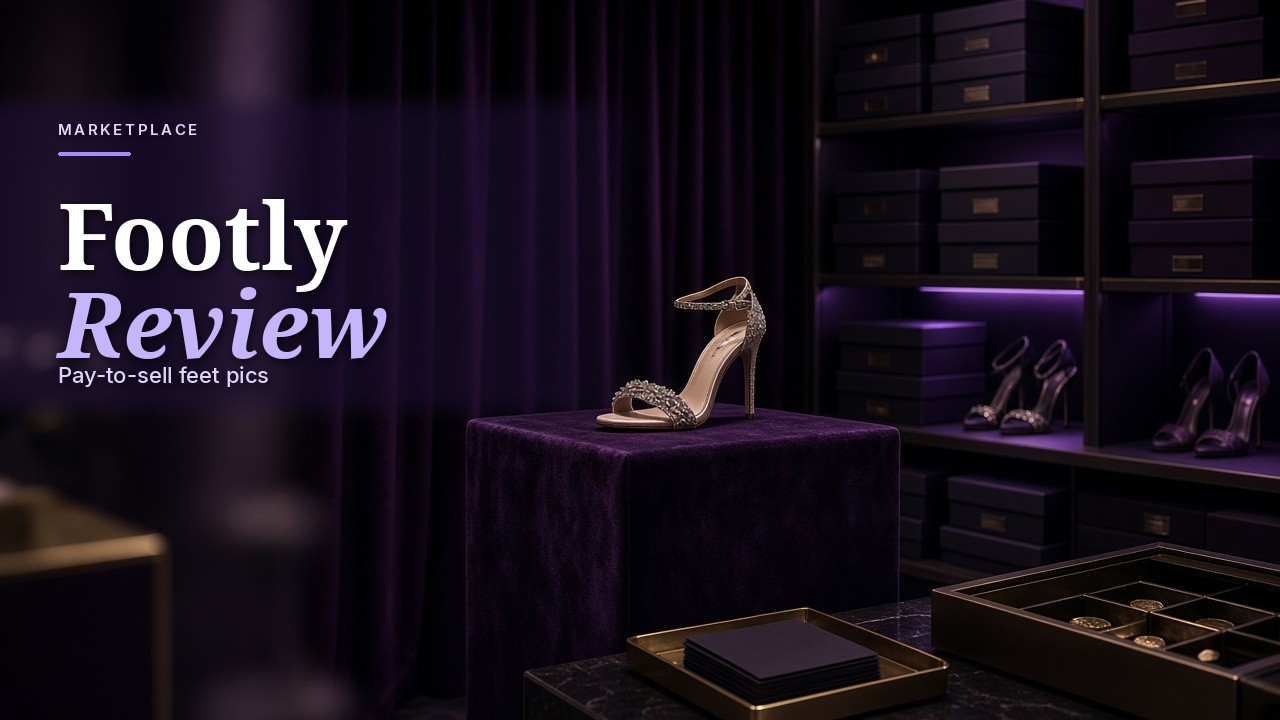
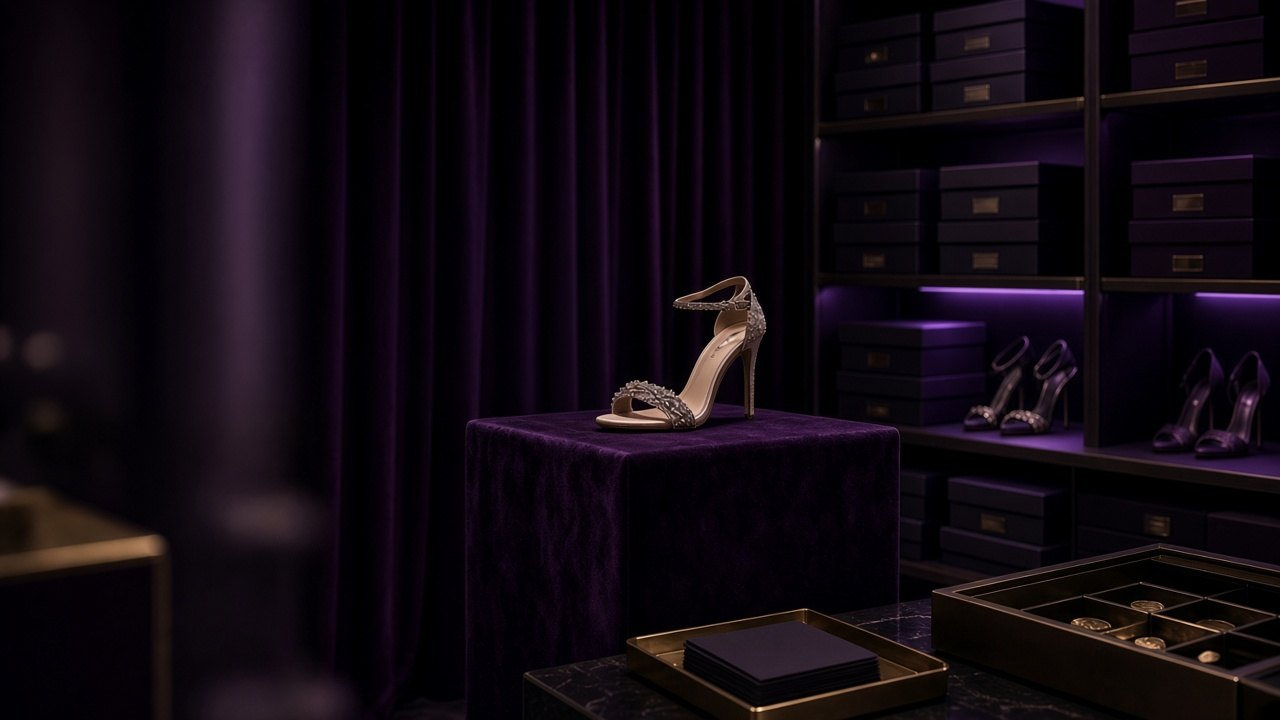
VIP cards: related full-bleed covers, title only (#31)
* Show only the guide title on each VIP card.

The Sell Feet Pics hub cards drop the number, badge, blurb, and Read guide button. The related cover stays as the full-card background, with a scrim so the linked title stays readable.

* Give the remaining VIP cards a title-matched cover.

Jerkay now shows a cam screen, Footly a jeweled heel, and the free-feet guide feet on a desk. Every hub card stays a full-bleed cover with only the linked title.

---------

diff --git a/category/sell-feet-pics/index.html b/category/sell-feet-pics/index.html
@@ -470,19 +470,13 @@ details.faq>summary::after{display:none!important}
 .fee-compare td{color:var(--text);font-size:14.5px}
 .fee-compare tbody tr:nth-child(even){background:var(--bg-2)}
 .vip-grid{display:grid;grid-template-columns:repeat(3,minmax(0,1fr));gap:16px}
-.vip-rich{position:relative;isolation:isolate;display:flex;flex-direction:column;overflow:hidden;color:#fff;border:1px solid rgba(196,181,253,.4);border-top:4px solid #C4B5FD;border-radius:16px;padding:18px 18px 16px;min-height:100%;background-color:#140c24;background-size:cover;background-position:center;background-repeat:no-repeat}
-.vip-rich::before{content:"";position:absolute;inset:0;z-index:0;pointer-events:none;background:linear-gradient(180deg,rgba(20,12,36,.42) 0%,rgba(20,12,36,.72) 46%,rgba(8,5,16,.92) 100%)}
-.vip-rich>*{position:relative;z-index:1}
-.vip-rich-top{display:flex;align-items:center;justify-content:space-between;margin-bottom:10px}
-.vip-num{font-family:var(--serif);font-size:22px;color:#f5f3ff}
-.vip-badge{font-size:11px;font-weight:800;letter-spacing:.08em;text-transform:uppercase;color:#f5f3ff;background:rgba(76,29,149,.72);border:1px solid rgba(196,181,253,.55);border-radius:999px;padding:4px 8px}
-:root[data-theme="dark"] .vip-badge{color:#f5f3ff;background:rgba(76,29,149,.72)}
-.vip-rich h3{margin:0 0 8px;font-size:18px;line-height:1.3}
+.vip-rich{position:relative;isolation:isolate;display:flex;flex-direction:column;justify-content:flex-end;overflow:hidden;color:#fff;border:1px solid rgba(196,181,253,.4);border-radius:16px;padding:18px;min-height:220px;aspect-ratio:1/1;background-color:#140c24;background-size:cover;background-position:right center;background-repeat:no-repeat}
+.vip-rich::before{content:"";position:absolute;inset:0;z-index:0;pointer-events:none;background:linear-gradient(180deg,rgba(20,12,36,.28) 0%,rgba(20,12,36,.55) 48%,rgba(8,5,16,.88) 100%)}
+.vip-rich::after{content:"";position:absolute;inset:0 auto 0 0;width:12%;z-index:1;pointer-events:none;background:linear-gradient(90deg,#140c24,transparent)}
+.vip-rich>*{position:relative;z-index:2}
+.vip-rich h3{margin:0;font-size:20px;line-height:1.25}
 .vip-rich h3 a{color:#fff;text-decoration:none}
 .vip-rich h3 a:hover{color:#e9d5ff}
-.vip-rich p{margin:0 0 14px;color:#f4efff;flex:1;font-size:14.5px}
-.vip-read{align-self:flex-start;background:#7C3AED;color:#fff!important;text-decoration:none!important;font-weight:700;border-radius:999px;padding:8px 14px;font-size:13px}
-.vip-read:hover{background:#6D28D9}
 .related-cats{padding-top:10px}
 @media(max-width:900px){.vip-grid{grid-template-columns:repeat(2,minmax(0,1fr))}}
 @media(max-width:640px){.vip-grid{grid-template-columns:1fr}.sfp-hero{border-radius:0 0 18px 18px}.sfp-hero .in{padding:30px 16px 36px}.vip-box{padding:24px 18px}}
@@ -606,7 +600,7 @@ details.faq>summary::after{display:none!important}
     </section>
     <section class="vip-guides" aria-labelledby="guides-h">
       <div class="section-head"><h2 id="guides-h">All VIP guides</h2></div>
-      <div class="vip-grid"><article class="vip-rich" style="background-image:url('/best-platforms-for-content-creators/cover.jpg')"><div class="vip-rich-top"><span class="vip-num">01</span><span class="vip-badge">VIP guide</span></div><h3><a href="https://www.dark-ero.store/best-platforms-for-content-creators/">Best Creator Platforms for Beginners 2026: 12 Top Picks Ranked</a></h3><p>New to creating? Compare 12 beginner-friendly creator platforms by fees, setup time and first-sale speed, from FeetFinder to OnlyFans, Fansly and Patreon.</p><a class="vip-read" href="https://www.dark-ero.store/best-platforms-for-content-creators/">Read guide</a></article><article class="vip-rich" style="background-image:url('/best-sites-to-sell-feet-pics/cover.jpg')"><div class="vip-rich-top"><span class="vip-num">02</span><span class="vip-badge">VIP guide</span></div><h3><a href="https://www.dark-ero.store/best-sites-to-sell-feet-pics/">Top 10 Best Sites to Sell Feet Pics in 2026: Fees &amp; Payouts</a></h3><p>The 10 best sites to sell feet pics in 2026, ranked by buyer traffic, seller fees, payout speed and safety, from FeetFinder and Fun With Feet to Fansly.</p><a class="vip-read" href="https://www.dark-ero.store/best-sites-to-sell-feet-pics/">Read guide</a></article><article class="vip-rich" style="background-image:url('/spicyranked-review/cover.jpg')"><div class="vip-rich-top"><span class="vip-num">03</span><span class="vip-badge">VIP guide</span></div><h3><a href="https://www.dark-ero.store/spicyranked-review/">SpicyRanked Review 2026: Scores, Rankings &amp; Trust</a></h3><p>SpicyRanked review 2026: how Heat Scores work, what best-of lists cover, affiliate disclosures, who the directory helps — plus trust and safety notes.</p><a class="vip-read" href="https://www.dark-ero.store/spicyranked-review/">Read guide</a></article><article class="vip-rich" style="background-image:url('/how-to-make-money-selling-feet-pics/cover.jpg')"><div class="vip-rich-top"><span class="vip-num">04</span><span class="vip-badge">VIP guide</span></div><h3><a href="https://www.dark-ero.store/how-to-make-money-selling-feet-pics/">How to Make Money Selling Feet Pics (2026 Guide)</a></h3><p>Learn how to make money selling feet pics in 2026: realistic earnings, platforms, pricing, photo tips, payouts and safety for adults 18+.</p><a class="vip-read" href="https://www.dark-ero.store/how-to-make-money-selling-feet-pics/">Read guide</a></article><article class="vip-rich" style="background-image:url('/how-to-sell-feet-pics-without-getting-scammed/cover.jpg')"><div class="vip-rich-top"><span class="vip-num">05</span><span class="vip-badge">VIP guide</span></div><h3><a href="https://www.dark-ero.store/how-to-sell-feet-pics-without-getting-scammed/">How to Sell Feet Pics Without Getting Scammed (2026)</a></h3><p>How to sell feet pics without getting scammed in 2026: red flags, safe payments, ID checks vs buyer chats, recovery steps and safer marketplaces.</p><a class="vip-read" href="https://www.dark-ero.store/how-to-sell-feet-pics-without-getting-scammed/">Read guide</a></article><article class="vip-rich" style="background-image:url('/jerkay-review/cover.jpg')"><div class="vip-rich-top"><span class="vip-num">06</span><span class="vip-badge">VIP guide</span></div><h3><a href="https://www.dark-ero.store/jerkay-review/">Jerkay Review 2026: Is This Free Gay Cam Chat Safe?</a></h3><p>Is Jerkay safe? Our 2026 review tests the free, no-signup gay cam chat for privacy, age checks and recording risks, plus safety tips and alternatives.</p><a class="vip-read" href="https://www.dark-ero.store/jerkay-review/">Read guide</a></article><article class="vip-rich" style="background-image:url('/feetfinder-review/cover.jpg')"><div class="vip-rich-top"><span class="vip-num">07</span><span class="vip-badge">VIP guide</span></div><h3><a href="https://www.dark-ero.store/feetfinder-review/">FeetFinder Review 2026: Is It Legit? Fees, Payouts &amp; Safety</a></h3><p>FeetFinder review 2026: is FeetFinder legit or a scam? Seller fees from $4.99, Basic vs Premium, $30 payout rules, ID verification plus safety advice.</p><a class="vip-read" href="https://www.dark-ero.store/feetfinder-review/">Read guide</a></article><article class="vip-rich" style="background-image:url('/sugar-daddy-apps/cover.jpg')"><div class="vip-rich-top"><span class="vip-num">08</span><span class="vip-badge">VIP guide</span></div><h3><a href="https://www.dark-ero.store/sugar-daddy-apps/">Sugar Daddy Apps That Send Money Without Meeting (2026)</a></h3><p>10 sugar daddy apps that send money without meeting, reviewed honestly: what each allows, who pays, how scams work and how to stay safe. Adults 18+ only.</p><a class="vip-read" href="https://www.dark-ero.store/sugar-daddy-apps/">Read guide</a></article><article class="vip-rich" style="background-image:url('/sites-like-onlyfans/cover.jpg')"><div class="vip-rich-top"><span class="vip-num">09</span><span class="vip-badge">VIP guide</span></div><h3><a href="https://www.dark-ero.store/sites-like-onlyfans/">Sites Like OnlyFans to Make Money: 12 Real Options</a></h3><p>Compare sites like OnlyFans to make money in 2026: platform cuts, payout minimums, content rules and which creator sites suit beginners, SFW or fetish.</p><a class="vip-read" href="https://www.dark-ero.store/sites-like-onlyfans/">Read guide</a></article><article class="vip-rich" style="background-image:url('/sell-feet-pics/cover.jpg')"><div class="vip-rich-top"><span class="vip-num">10</span><span class="vip-badge">VIP guide</span></div><h3><a href="https://www.dark-ero.store/sell-feet-pics/">How to Sell Feet Pics in 2026: Platforms, Prices &amp; Safety</a></h3><p>Learn how to sell feet pics in 2026: where to sell, what to charge, how to find buyers, stay anonymous, avoid scams and handle taxes. Beginner-friendly guide.</p><a class="vip-read" href="https://www.dark-ero.store/sell-feet-pics/">Read guide</a></article><article class="vip-rich" style="background-image:url('/where-to-sell-feet-pics-for-free/cover.jpg')"><div class="vip-rich-top"><span class="vip-num">11</span><span class="vip-badge">VIP guide</span></div><h3><a href="https://www.dark-ero.store/where-to-sell-feet-pics-for-free/">Where to Sell Feet Pics for Free: 2026 Sites, Fees &amp; Rules</a></h3><p>Where to sell feet pics for free in 2026: which free feet pic selling platforms really cost nothing, what they take in commission, and which apps ban sales.</p><a class="vip-read" href="https://www.dark-ero.store/where-to-sell-feet-pics-for-free/">Read guide</a></article><article class="vip-rich" style="background-image:url('/footly-review/cover.jpg')"><div class="vip-rich-top"><span class="vip-num">12</span><span class="vip-badge">VIP guide</span></div><h3><a href="https://www.dark-ero.store/footly-review/">Footly Review 2026: Seller Plans, Fees, Payouts &amp; Safety</a></h3><p>Footly review 2026: Rising, Spotlight and Icon plans, 5–15% sale fees, $10 weekly payouts, Ondato ID checks, privacy terms and how it compares to FeetFinder.</p><a class="vip-read" href="https://www.dark-ero.store/footly-review/">Read guide</a></article><article class="vip-rich" style="background-image:url('/ablx-review/cover.jpg')"><div class="vip-rich-top"><span class="vip-num">13</span><span class="vip-badge">VIP guide</span></div><h3><a href="https://www.dark-ero.store/ablx-review/">ABLX Review 2026: Credit Prices, Deepfake Risk and Safety</a></h3><p>ABLX review: we check its uncensored AI video credits, $2.99 to $79.99 packs, real photo upload risks, age gate, privacy gaps and better alternatives.</p><a class="vip-read" href="https://www.dark-ero.store/ablx-review/">Read guide</a></article><article class="vip-rich" style="background-image:url('/ai-angels-review/cover.jpg')"><div class="vip-rich-top"><span class="vip-num">14</span><span class="vip-badge">VIP guide</span></div><h3><a href="https://www.dark-ero.store/ai-angels-review/">AI Angels Review 2026: Pricing, Credits, Safety and Risks</a></h3><p>AI Angels review: we unpack its AI girlfriend roster, $3.99 to $39.99 plans, credits, 24-hour refunds, weak age gate and safer alternatives.</p><a class="vip-read" href="https://www.dark-ero.store/ai-angels-review/">Read guide</a></article><article class="vip-rich" style="background-image:url('/kindroid-review/cover.jpg')"><div class="vip-rich-top"><span class="vip-num">15</span><span class="vip-badge">VIP guide</span></div><h3><a href="https://www.dark-ero.store/kindroid-review/">Kindroid Review 2026: Price, Memory, No Free Plan &amp; Safety</a></h3><p>Kindroid review: we cover its layered memory, calls, selfies, $13.99 Standard plan, costly add-ons, the end of the free tier, age checks and privacy.</p><a class="vip-read" href="https://www.dark-ero.store/kindroid-review/">Read guide</a></article><article class="vip-rich" style="background-image:url('/secretundies-review/cover.jpg')"><div class="vip-rich-top"><span class="vip-num">16</span><span class="vip-badge">VIP guide</span></div><h3><a href="https://www.dark-ero.store/secretundies-review/">SecretUndies Review 2026: Seller Fees, Payouts and Safety</a></h3><p>SecretUndies review: we check seller plans from €4.97, 5% to 20% fees, €50 payouts, age checks, privacy and whether its tiny catalogue is worth it.</p><a class="vip-read" href="https://www.dark-ero.store/secretundies-review/">Read guide</a></article><article class="vip-rich" style="background-image:url('/fapello-review/cover.jpg')"><div class="vip-rich-top"><span class="vip-num">17</span><span class="vip-badge">VIP guide</span></div><h3><a href="https://www.dark-ero.store/fapello-review/">Fapello Review 2026: Is It Safe, Legal or Worth Avoiding?</a></h3><p>Fapello review: how its user uploads work, consent and copyright gaps, the Ofcom fine, pop-up ads, privacy risks and creator-paid alternatives.</p><a class="vip-read" href="https://www.dark-ero.store/fapello-review/">Read guide</a></article><article class="vip-rich" style="background-image:url('/fikfap-review/cover.jpg')"><div class="vip-rich-top"><span class="vip-num">18</span><span class="vip-badge">VIP guide</span></div><h3><a href="https://www.dark-ero.store/fikfap-review/">FikFap Review 2026: Is It Safe, Free and Worth Using?</a></h3><p>FikFap review: we explain its swipe-style adult short video feed, free access, web app vs risky APKs, privacy gaps, creator payouts and alternatives.</p><a class="vip-read" href="https://www.dark-ero.store/fikfap-review/">Read guide</a></article><article class="vip-rich" style="background-image:url('/ourdream-ai-review/cover.jpg')"><div class="vip-rich-top"><span class="vip-num">19</span><span class="vip-badge">VIP guide</span></div><h3><a href="https://www.dark-ero.store/ourdream-ai-review/">OurDream AI Review 2026: Price, DreamCoins, Safety &amp; Value</a></h3><p>OurDream AI review: we break down its $19.99 plan, DreamCoin costs, NSFW chat, image and video tools, refund rules, age checks and top alternatives.</p><a class="vip-read" href="https://www.dark-ero.store/ourdream-ai-review/">Read guide</a></article></div>
+      <div class="vip-grid"><article class="vip-rich" style="background-image:url('/best-platforms-for-content-creators/cover.jpg')"><h3><a href="https://www.dark-ero.store/best-platforms-for-content-creators/">Best Creator Platforms for Beginners 2026: 12 Top Picks Ranked</a></h3></article><article class="vip-rich" style="background-image:url('/best-sites-to-sell-feet-pics/cover.jpg')"><h3><a href="https://www.dark-ero.store/best-sites-to-sell-feet-pics/">Top 10 Best Sites to Sell Feet Pics in 2026: Fees &amp; Payouts</a></h3></article><article class="vip-rich" style="background-image:url('/spicyranked-review/cover.jpg')"><h3><a href="https://www.dark-ero.store/spicyranked-review/">SpicyRanked Review 2026: Scores, Rankings &amp; Trust</a></h3></article><article class="vip-rich" style="background-image:url('/how-to-make-money-selling-feet-pics/cover.jpg')"><h3><a href="https://www.dark-ero.store/how-to-make-money-selling-feet-pics/">How to Make Money Selling Feet Pics (2026 Guide)</a></h3></article><article class="vip-rich" style="background-image:url('/how-to-sell-feet-pics-without-getting-scammed/cover.jpg')"><h3><a href="https://www.dark-ero.store/how-to-sell-feet-pics-without-getting-scammed/">How to Sell Feet Pics Without Getting Scammed (2026)</a></h3></article><article class="vip-rich" style="background-image:url('/jerkay-review/cover.jpg')"><h3><a href="https://www.dark-ero.store/jerkay-review/">Jerkay Review 2026: Is This Free Gay Cam Chat Safe?</a></h3></article><article class="vip-rich" style="background-image:url('/feetfinder-review/cover.jpg')"><h3><a href="https://www.dark-ero.store/feetfinder-review/">FeetFinder Review 2026: Is It Legit? Fees, Payouts &amp; Safety</a></h3></article><article class="vip-rich" style="background-image:url('/sugar-daddy-apps/cover.jpg')"><h3><a href="https://www.dark-ero.store/sugar-daddy-apps/">Sugar Daddy Apps That Send Money Without Meeting (2026)</a></h3></article><article class="vip-rich" style="background-image:url('/sites-like-onlyfans/cover.jpg')"><h3><a href="https://www.dark-ero.store/sites-like-onlyfans/">Sites Like OnlyFans to Make Money: 12 Real Options</a></h3></article><article class="vip-rich" style="background-image:url('/sell-feet-pics/cover.jpg')"><h3><a href="https://www.dark-ero.store/sell-feet-pics/">How to Sell Feet Pics in 2026: Platforms, Prices &amp; Safety</a></h3></article><article class="vip-rich" style="background-image:url('/where-to-sell-feet-pics-for-free/cover.jpg');background-position:center"><h3><a href="https://www.dark-ero.store/where-to-sell-feet-pics-for-free/">Where to Sell Feet Pics for Free: 2026 Sites, Fees &amp; Rules</a></h3></article><article class="vip-rich" style="background-image:url('/footly-review/cover.jpg');background-position:center"><h3><a href="https://www.dark-ero.store/footly-review/">Footly Review 2026: Seller Plans, Fees, Payouts &amp; Safety</a></h3></article><article class="vip-rich" style="background-image:url('/ablx-review/cover.jpg')"><h3><a href="https://www.dark-ero.store/ablx-review/">ABLX Review 2026: Credit Prices, Deepfake Risk and Safety</a></h3></article><article class="vip-rich" style="background-image:url('/ai-angels-review/cover.jpg')"><h3><a href="https://www.dark-ero.store/ai-angels-review/">AI Angels Review 2026: Pricing, Credits, Safety and Risks</a></h3></article><article class="vip-rich" style="background-image:url('/kindroid-review/cover.jpg')"><h3><a href="https://www.dark-ero.store/kindroid-review/">Kindroid Review 2026: Price, Memory, No Free Plan &amp; Safety</a></h3></article><article class="vip-rich" style="background-image:url('/secretundies-review/cover.jpg')"><h3><a href="https://www.dark-ero.store/secretundies-review/">SecretUndies Review 2026: Seller Fees, Payouts and Safety</a></h3></article><article class="vip-rich" style="background-image:url('/fapello-review/cover.jpg')"><h3><a href="https://www.dark-ero.store/fapello-review/">Fapello Review 2026: Is It Safe, Legal or Worth Avoiding?</a></h3></article><article class="vip-rich" style="background-image:url('/fikfap-review/cover.jpg')"><h3><a href="https://www.dark-ero.store/fikfap-review/">FikFap Review 2026: Is It Safe, Free and Worth Using?</a></h3></article><article class="vip-rich" style="background-image:url('/ourdream-ai-review/cover.jpg')"><h3><a href="https://www.dark-ero.store/ourdream-ai-review/">OurDream AI Review 2026: Price, DreamCoins, Safety &amp; Value</a></h3></article></div>
     </section>
     <section class="section related-cats"><div class="section-head"><h2>Related categories</h2></div><div class="tile-grid"><a class="tile" href="https://www.dark-ero.store/category/fetish/"><div class="ico">⛓</div><h3>Fetish &amp; Kink</h3></a><a class="tile" href="https://www.dark-ero.store/category/body-themes/"><div class="ico">👤</div><h3>Body &amp; Themes</h3></a></div></section>
   </div>

diff --git a/assets/site-type.css b/assets/site-type.css
@@ -72,7 +72,7 @@ section.takeaways h2{color:#6d28d9}
   color:#fff;
   background-color:#140c24;
   background-size:cover;
-  background-position:center;
+  background-position:right center;
   background-repeat:no-repeat;
 }
 .vip-rich::before{
@@ -83,11 +83,19 @@ section.takeaways h2{color:#6d28d9}
   pointer-events:none;
   background:linear-gradient(180deg,rgba(20,12,36,.42) 0%,rgba(20,12,36,.72) 46%,rgba(8,5,16,.92) 100%);
 }
-.vip-rich>*{position:relative;z-index:1}
+.vip-rich::after{
+  content:"";
+  position:absolute;
+  inset:0 auto 0 0;
+  width:12%;
+  z-index:1;
+  pointer-events:none;
+  background:linear-gradient(90deg,#140c24,transparent);
+}
+.vip-rich>*{position:relative;z-index:2}
+.vip-rich h3{margin:0}
 .vip-rich h3 a{color:#fff}
 .vip-rich h3 a:hover{color:#e9d5ff}
-.vip-rich p{color:#f4efff}
-.vip-num{color:#f5f3ff}
 .pg-hero .cover{margin:22px auto 0;max-width:760px;border-radius:16px;overflow:hidden;border:1px solid rgba(255,255,255,.22);box-shadow:0 16px 40px rgba(0,0,0,.28)}
 .pg-hero .cover img{width:100%;height:auto;display:block;max-height:460px;object-fit:cover;background:#1b1430}
 /* Directory column scroller keeps the UI face and its bold labels. */
